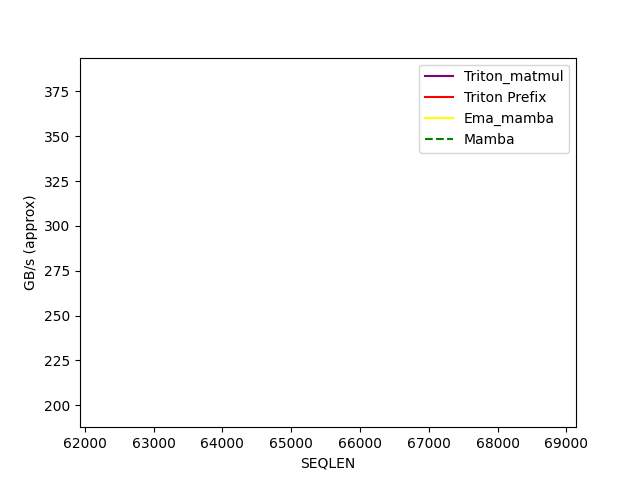
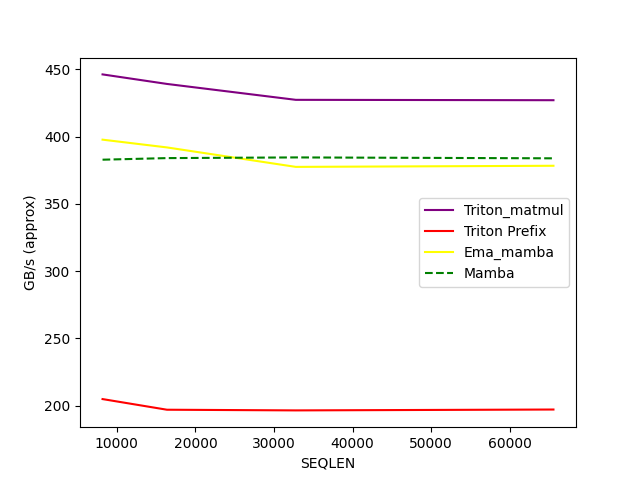
Solves Througput Bug
This commit accurately measures the mamba_chunk_scan time required
against ema_matmul_scan_combined by moving the preprocessing computation
for ema outside the kernel call.

diff --git a/kernels/ema_kernels/ema_combined_fwd.py b/kernels/ema_kernels/ema_combined_fwd.py
@@ -9,7 +9,7 @@ from kernels.ema_kernels.ema_scan_fwd import _ema_scan_fwd
 
 
 
-def _ema_matmul_scan_combined_fwd(x, P, chunk_size, dtype=torch.float32):
+def _ema_matmul_scan_combined_fwd(A_ema, X_ema, chunk_size, dtype=torch.float32):
     # batch, seqlen, token_dim = x.shape
     # assert P.shape == (batch, seqlen, 1)
     # #TODO(kartiksrinivas): Need to check this for bugs, what needs to be contiguous exactly
@@ -18,8 +18,7 @@ def _ema_matmul_scan_combined_fwd(x, P, chunk_size, dtype=torch.float32):
     # if x.stride(-1) != 1 and x.stride(1) != 1:  # Either M or K dimension should be contiguous
     #     x = x.contiguous()
     
-    A_ema = torch.log(1 - P).squeeze(-1) # the final dimension
-    X_ema = x * P # broadcast
+
 
     ema_cs = ema_chunk_cumsum_fwd(
         A_ema, chunk_size=chunk_size
@@ -65,16 +64,15 @@ class EMAMatmulCombinedFn(torch.autograd.Function):
 
         # This is not implemented yet
 
-        out, x, dt, dA_cumsum, A, B, C, D, z, dt_bias, initial_states, seq_idx = ctx.saved_tensors
-        assert not ctx.return_varlen_states, "return_varlen_states is not supported in backward"
-        dfinal_states = args[0] if ctx.return_final_states else None
-        # dx, ddt, dA, dB, dC, dD, dz, ddt_bias, dinitial_states = _mamba_chunk_scan_combined_bwd(dout, x, dt, A, B, C, out, ctx.chunk_size, D=D, z=z, dt_bias=dt_bias, initial_states=initial_states, dfinal_states=dfinal_states, seq_idx=seq_idx, dt_softplus=ctx.dt_softplus, dt_limit=ctx.dt_limit)
-        dx, ddt, dA, dB, dC, dD, dz, ddt_bias, dinitial_states = (None, ) * 9
-        return dx, ddt, dA, dB, dC, None, dD, dz, ddt_bias, dinitial_states, None, None, None, None, None, None
+        # out, x, dt, dA_cumsum, A, B, C, D, z, dt_bias, initial_states, seq_idx = ctx.saved_tensors
+        # assert not ctx.return_varlen_states, "return_varlen_states is not supported in backward"
+        # dfinal_states = args[0] if ctx.return_final_states else None
+        # # dx, ddt, dA, dB, dC, dD, dz, ddt_bias, dinitial_states = _mamba_chunk_scan_combined_bwd(dout, x, dt, A, B, C, out, ctx.chunk_size, D=D, z=z, dt_bias=dt_bias, initial_states=initial_states, dfinal_states=dfinal_states, seq_idx=seq_idx, dt_softplus=ctx.dt_softplus, dt_limit=ctx.dt_limit)
+        # dx, ddt, dA, dB, dC, dD, dz, ddt_bias, dinitial_states = (None, ) * 9
+        return None
 
 
-
-def ema_matmul_scan_combined(x, P, chunk_size):
-    return EMAMatmulCombinedFn.apply(x, P, chunk_size)
+def ema_matmul_scan_combined(A_ema, X_ema, chunk_size):
+    return EMAMatmulCombinedFn.apply(A_ema, X_ema, chunk_size)
 
 

diff --git a/kernels/benchmarks/ema_bench.py b/kernels/benchmarks/ema_bench.py
@@ -48,7 +48,7 @@ for head_dim in [1024]:
                 bench_configs.append(
                     triton.testing.Benchmark(
                         x_names=["SEQLEN"],
-                        x_vals=[2**i for i in range(16, 17)],  
+                        x_vals=[2**i for i in range(13, 17)],  
                         line_arg="provider",
                         line_vals=["triton_matmul", "triton_prefix", "ema_mamba", "mamba"],
                         line_names=["Triton_matmul", "Triton Prefix", "Ema_mamba", "Mamba"],
@@ -99,8 +99,10 @@ def bench_ema(BATCH, SEQLEN, HEAD_DIM, MAMBA_HEAD_DIM, MAMBA_CHUNK_SIZE, provide
             X_m, dt, A, B_m, C_m, chunk_size=MAMBA_CHUNK_SIZE, seq_idx=None)
         ms = triton.testing.do_bench(fn)
     elif provider == "triton_matmul":
+        A_ema = torch.log(1 - p).squeeze(-1) # the final dimension
+        X_ema = x * p # broadcast
         fn = lambda : ema_matmul_scan_combined(
-            x, p, chunk_size=MAMBA_CHUNK_SIZE
+            A_ema, X_ema, chunk_size=MAMBA_CHUNK_SIZE
         )
         ms = triton.testing.do_bench_cudagraph(fn)
         pass
